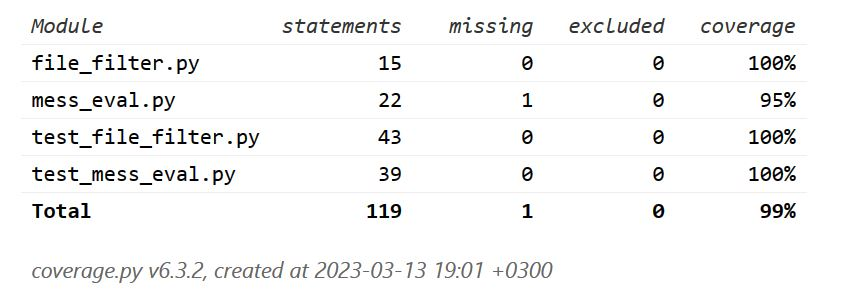
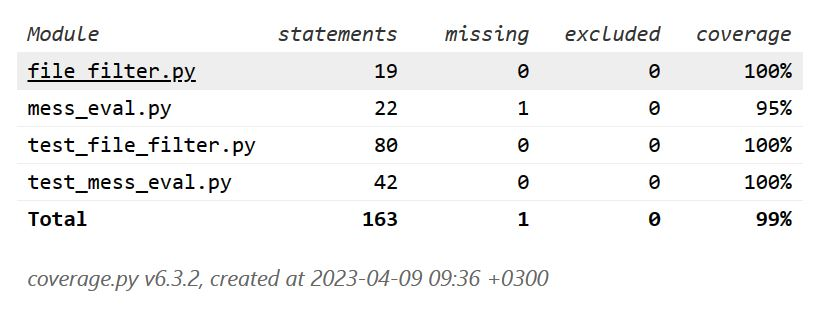
1 hw fix remarks

diff --git a/01/test_file_filter.py b/01/test_file_filter.py
@@ -84,9 +84,9 @@ class TestMessEvalFile(TestCase):
             self.assertEqual(next(gen), str_2)
             with self.assertRaises(StopIteration):
                 next(gen)
-        gen = file_filter(self.file, ['texts'])
-        with self.assertRaises(StopIteration):
-            next(gen)
+            gen = file_filter(self.file, ['texts'])
+            with self.assertRaises(StopIteration):
+                next(gen)
 
     def test_generator_words(self):
         words = ['type', 'sim']

diff --git a/01/test_mess_eval.py b/01/test_mess_eval.py
@@ -49,3 +49,7 @@ class TestMessEval(TestCase):
 
             self.assertEqual(pmm(self.mess, instance, bad, good), '')
             self.assertEqual(pmm(self.mess, instance, bad, good), '')
+
+            self.assertEqual(instance.predict.call_count, 9)
+            args = [mock.call(self.mess)]*9
+            self.assertEqual(instance.predict.call_args_list, args)
